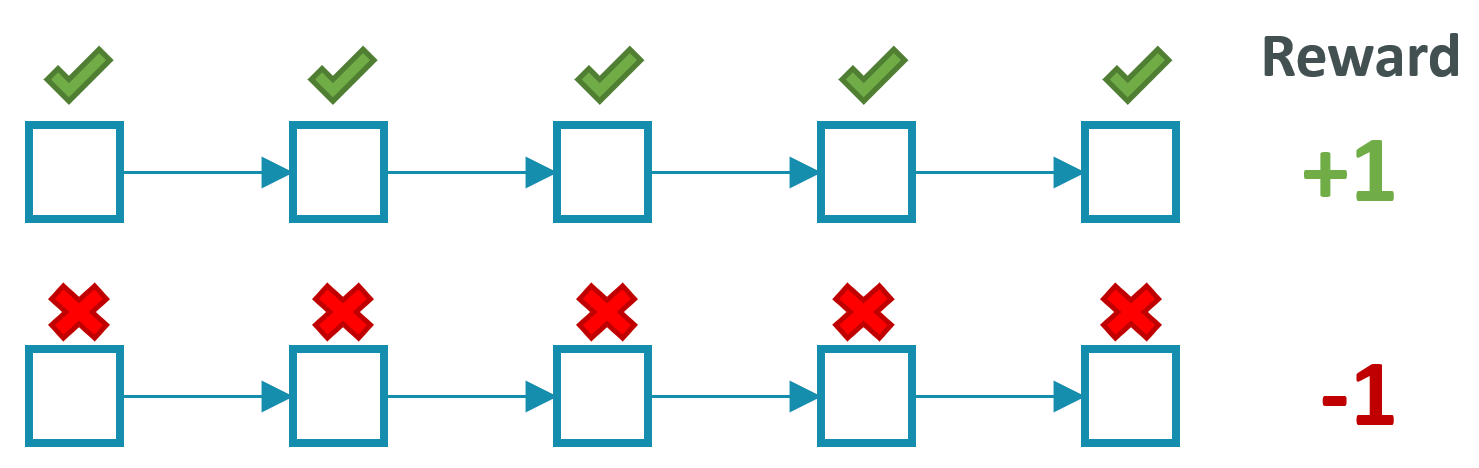
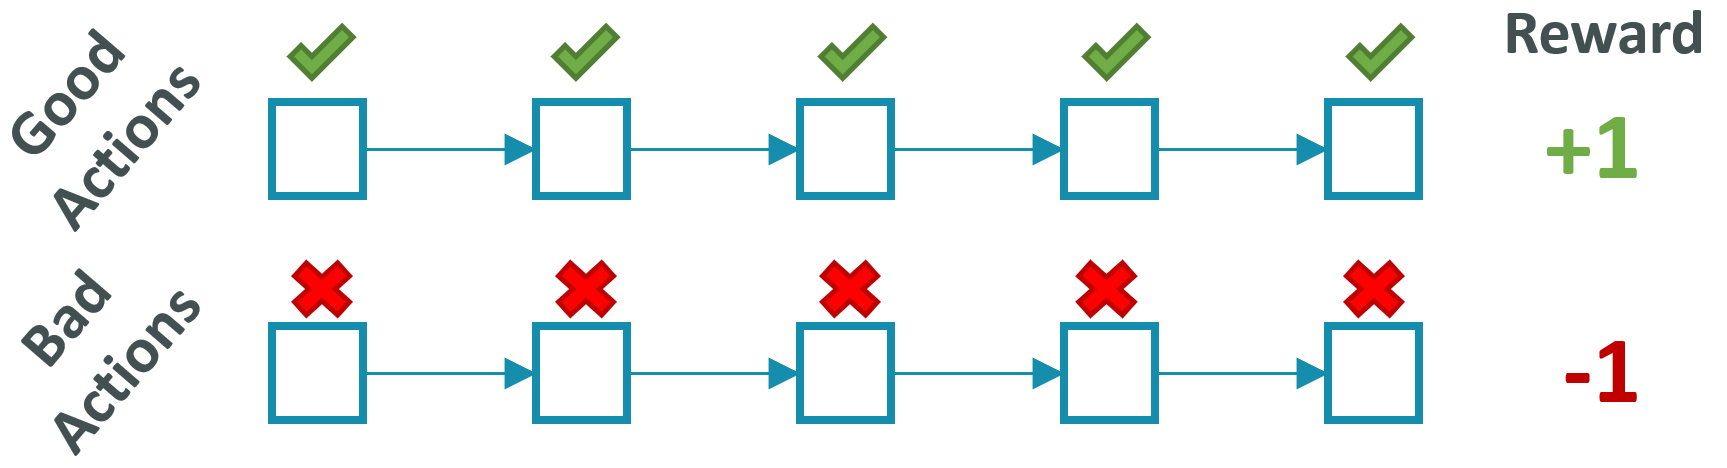
Minor tweaks to RL

diff --git a/assign3/RL/beamer/wasp-beamer.tex b/assign3/RL/beamer/wasp-beamer.tex
@@ -71,13 +71,13 @@
 % Good source: http://karpathy.github.io/2016/05/31/rl/ also https://en.wikipedia.org/wiki/Reinforcement_learning#Direct_policy_search
 \begin{frame}{Policy Gradients}
   \begin{itemize}
-  \item Construct a mapping from some parameter space to the space of possible policies. Optimize over the parameters to find the best policy.
+  \item Construct a mapping from some parameter space to the space of possible policies. Each parameter assignment results in a policy. Optimize over the parameters to find the best policy.
   \item For example, train a neural network to represent our policy:
   \begin{description}
   \item[Input:] Current and possibly previous states.
   \item[Ouput:] The next action to take or a distibution of actions to sample from.
   \end{description}
-  Each possible assignment of the parameters/weights in the network results in a policy.
+  In this case, the weights of the network parameterize the policy implemented by the network.
   \end{itemize}
 \end{frame}
 
@@ -88,7 +88,7 @@
   \item This classification is then used to train the network, making good actions more probable in the future.
   \begin{figure}
     \centering
-    \includegraphics[width=0.8\textwidth]{trajectory_of_actions.png}
+    \includegraphics[width=0.85\textwidth]{trajectory_of_actions.png}
   \end{figure}
   \end{itemize}
 \end{frame}
@@ -98,7 +98,7 @@
   There are some problems with policy gradients and reinforcement learning in general:
   \begin{description}
   \item[Credit assignment:] How do we find out what actions were good or bad in a long trajectory of actions?\\
-  Example: why did the agent win a game of chess?
+  Example: what moves caused the agent win a game of chess?
   \item[Sparse reward:] How do we handle sparse rewards?\footnote{See e.g. curiosity-driven exploration and hindsight experience replay.}\\
   Example: starting out with random actions the agent will probably never win a game of chess if no reward is given until the end of the game.
   \end{description}
